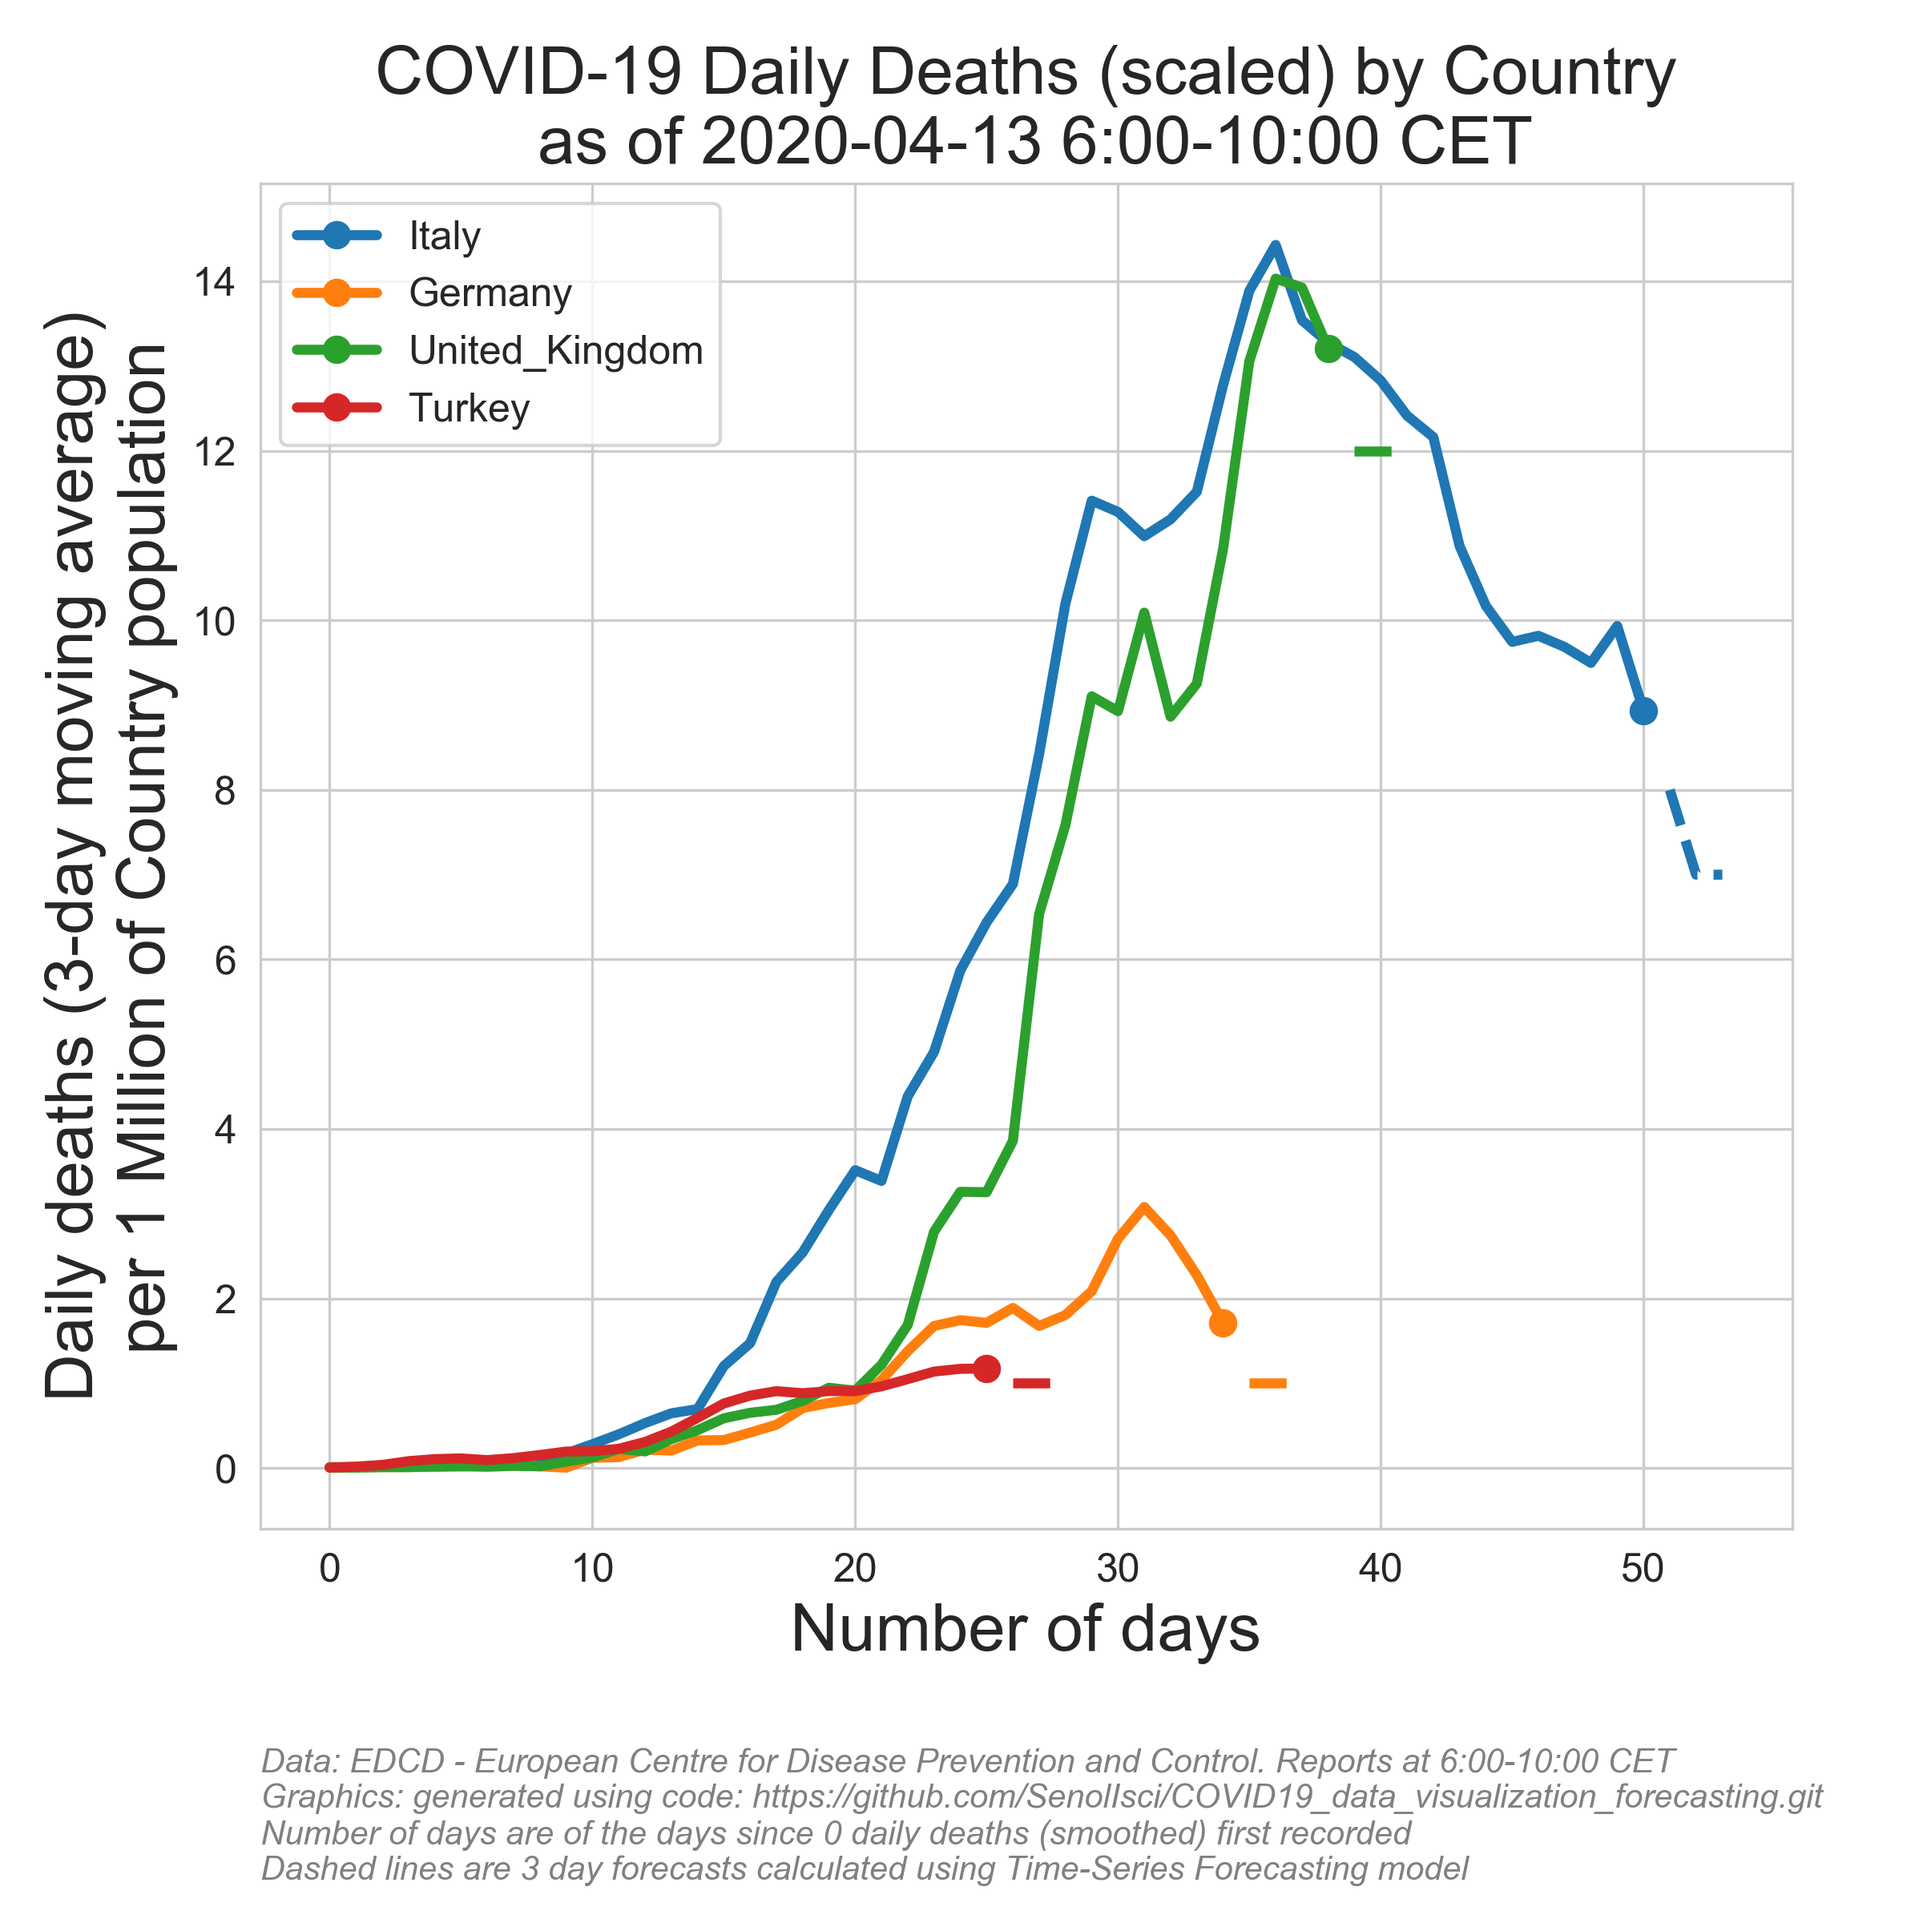
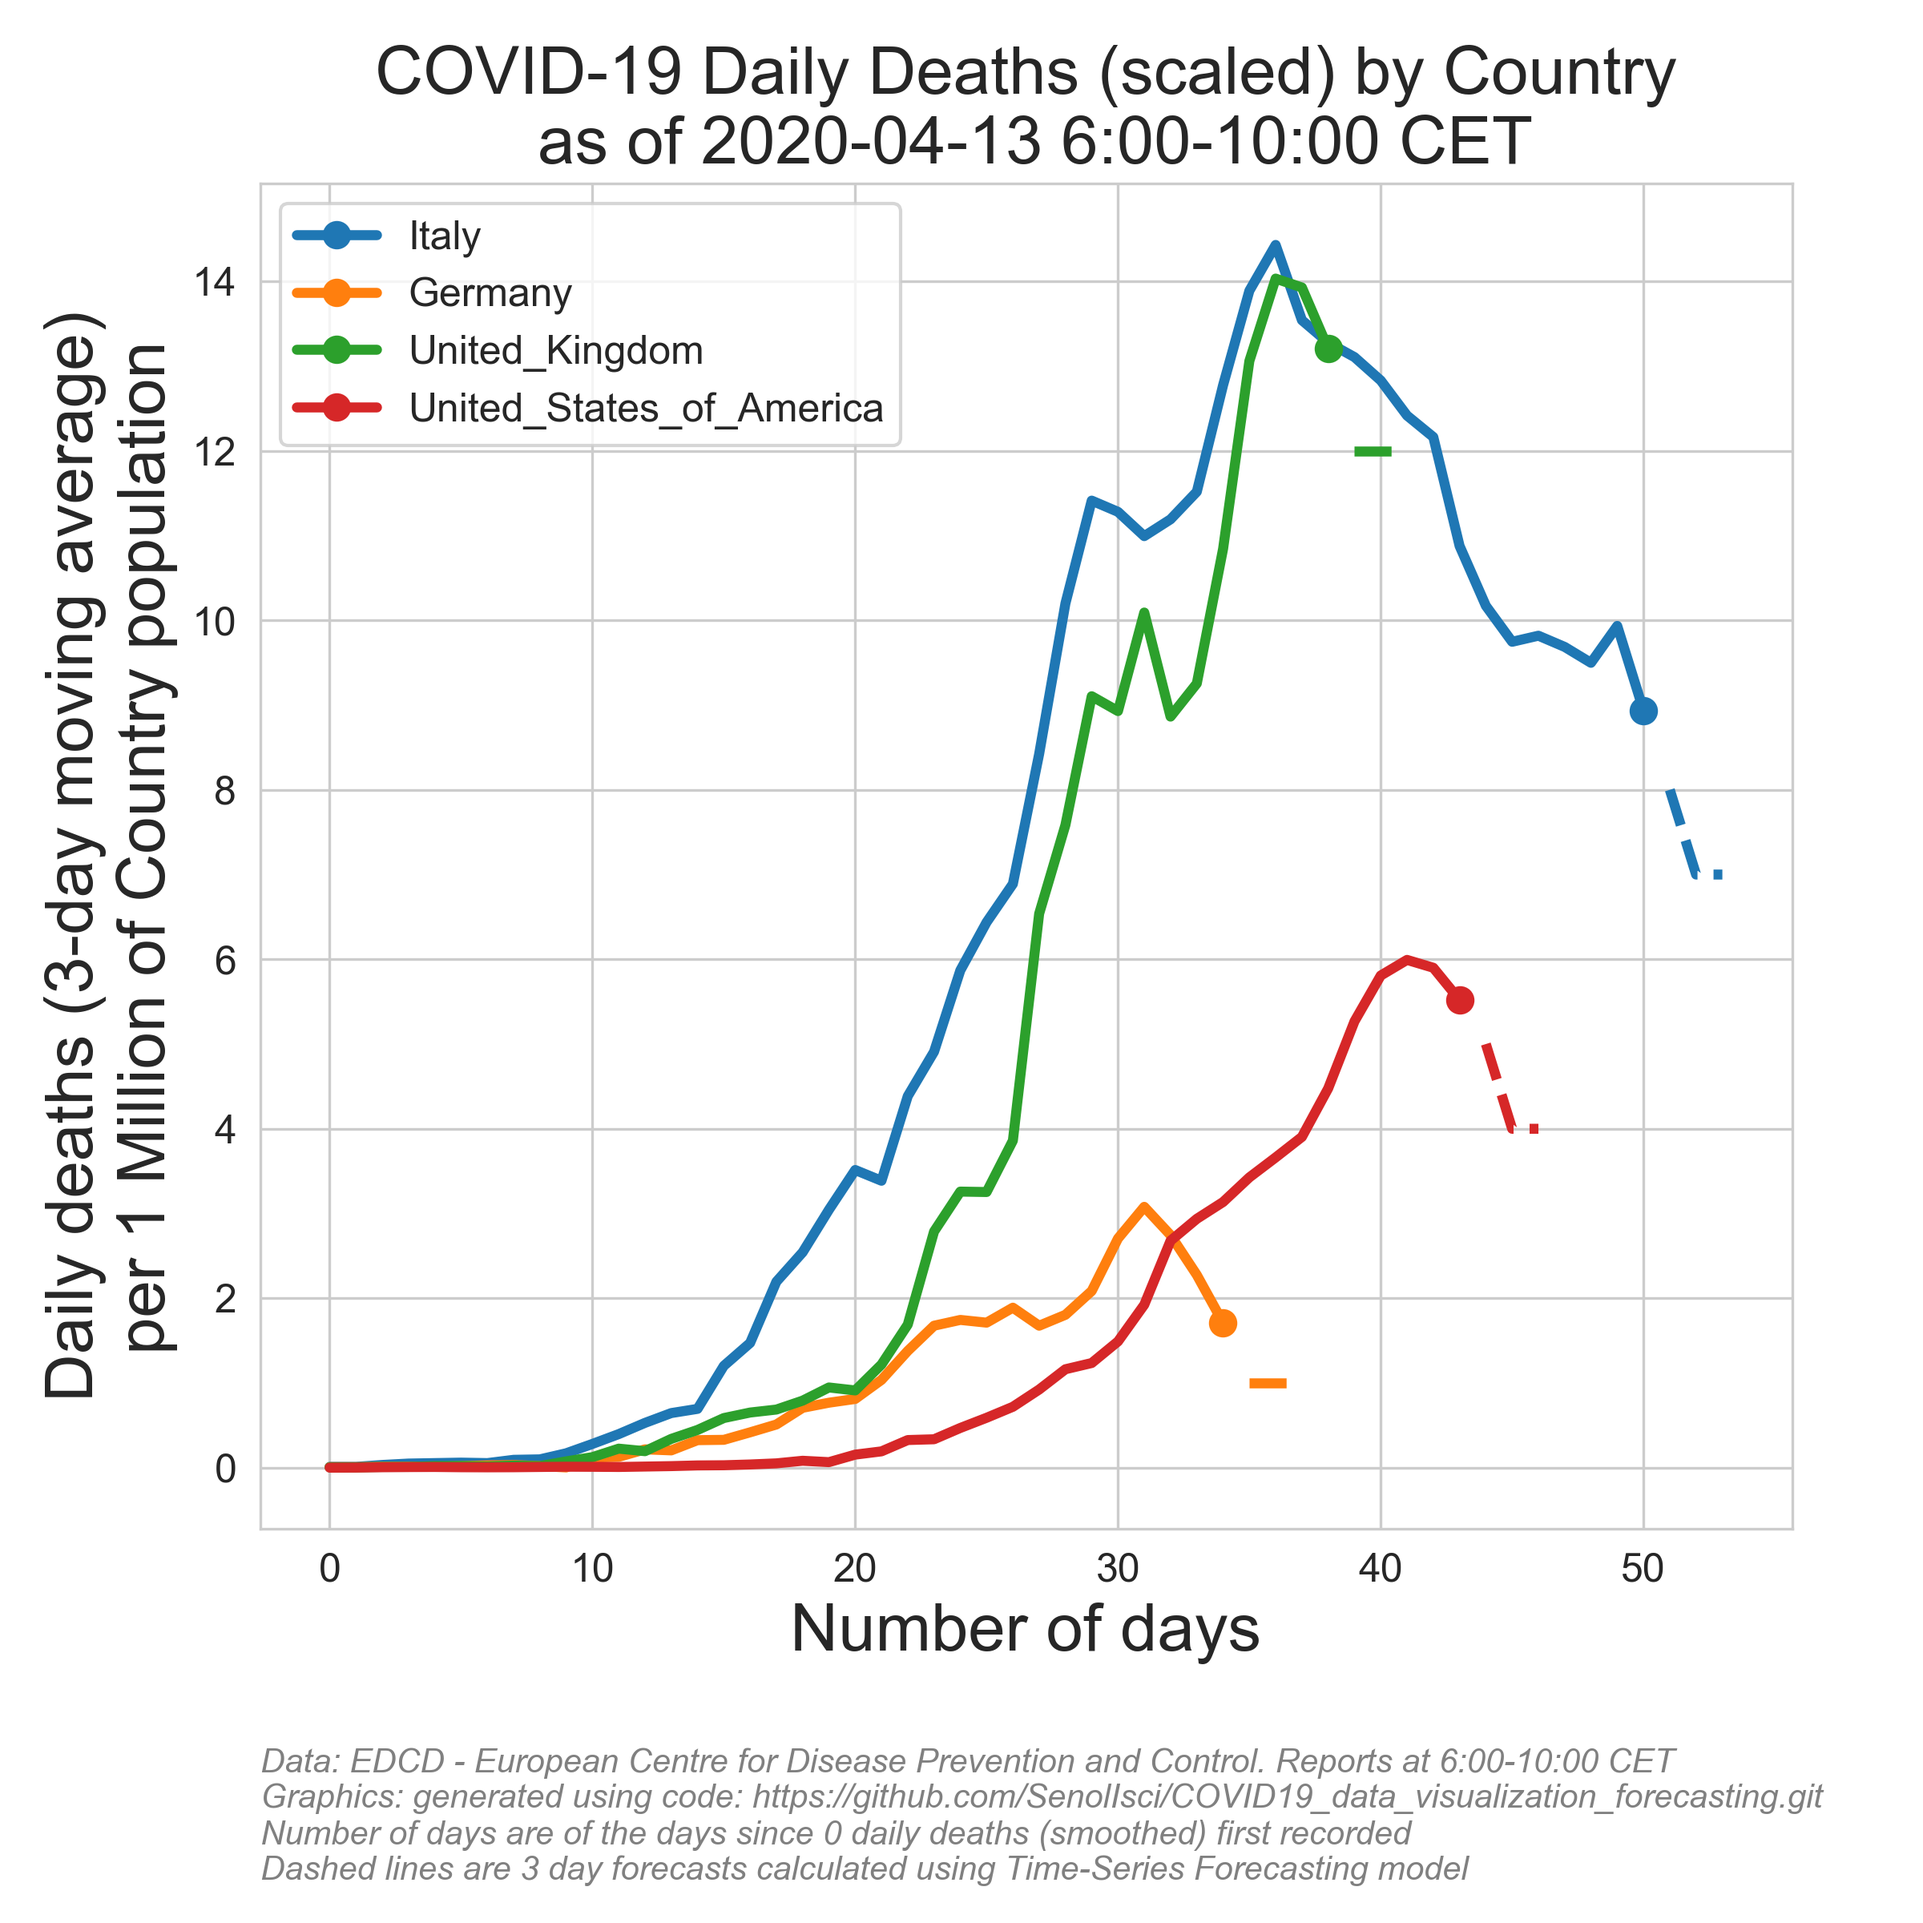
minor changes

diff --git a/COVID19_data_visualization_and_forecast.py b/COVID19_data_visualization_and_forecast.py
@@ -264,7 +264,7 @@ case_thr=10 # the day threshold that the first N cases recorded
 deat_thr=3 # the day threshold that the first N deaths recorded
 caseperpop_thr=0
 deatperpop_thr=0
-country_list=['ITA','DEU','GBR','TUR']
+country_list=['ITA','DEU','GBR','USA']
  
 
 new_dict1=RUNcoviddatastory('Total_cases',PubDate,country_list,case_thr,mawindow,fdays,loga,forecast_flag,forecast_mdl,plot_figures_flag,save_figures_flag,verbose,show_mdl_detail)        
